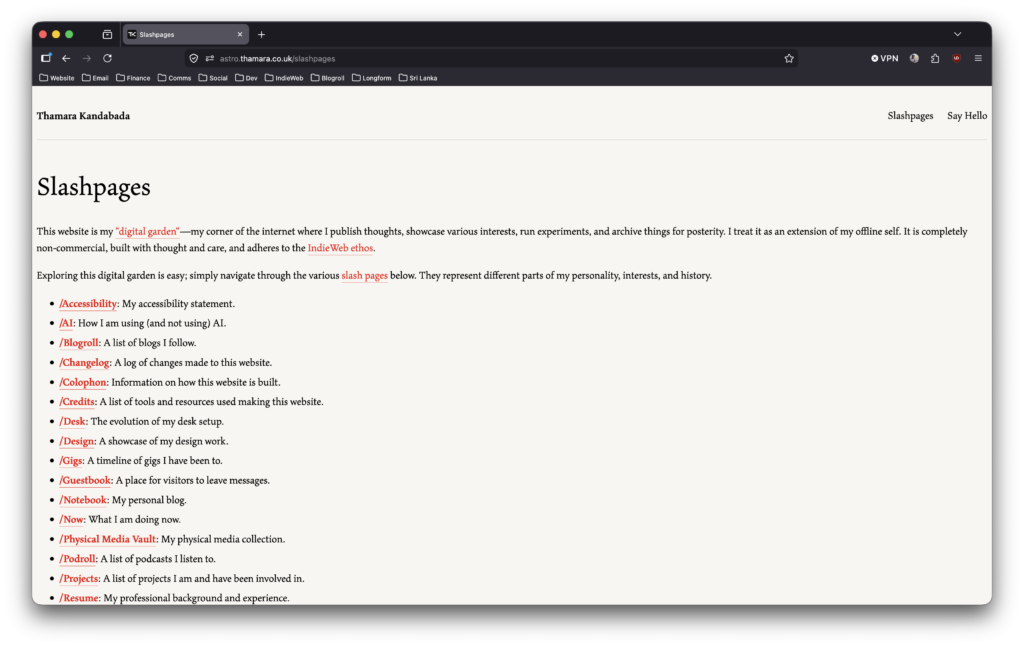
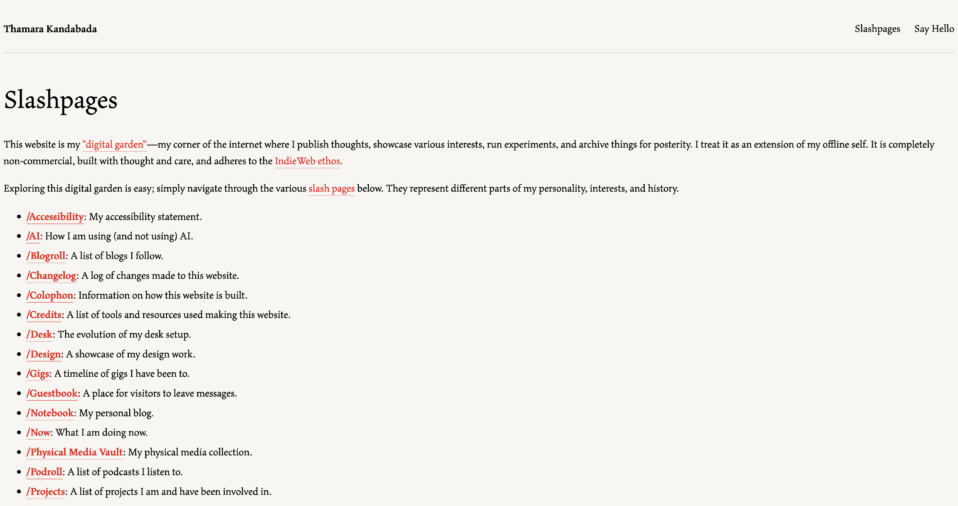
build: add post navigation and discuss widget to notebook

Changed region(s): [[0.0, 0.0296, 0.999, 1.0]]

diff --git a/src/styles/global.css b/src/styles/global.css
@@ -175,6 +175,12 @@ nav p, nav div {
     transition: 0.5s;
 }
 
+.post-nav {
+    margin: 0;
+    padding: 0;
+    font-style: italic;
+}
+
 /*
 Text elements
 --------------
@@ -583,7 +589,7 @@ Grids and sub-grids
 ===================
 */
 
-.gigs-grid {
+.gigs-grid, .md-grid {
     display: grid;
     grid-template-columns: 1fr 1fr;
     column-gap: 1.5rem;
@@ -699,8 +705,9 @@ Site notices
 
 .topics-list {
     border-top: 1px solid var(--border-color);
-    margin-top: 3rem;
-    padding-top: 1rem;
+    border-bottom: 1px solid var(--border-color);
+    margin: 3rem 0 1rem 0;
+    padding: 1rem 0 1rem 0;
 }
 
 .topics-list ul {
@@ -788,7 +795,7 @@ Media queries
         gap: 0;
     }
 
-    .uses-grid-container, .debas-grid, .now-grid, .uses-grid-container, .projects-grid, .style-grid, .meals, .blogroll-grid, .verify-grid, .podcast-grid, .podroll-grid, .podroll-subgrid, .notebook-grid, .gigs-grid {
+    .uses-grid-container, .debas-grid, .now-grid, .uses-grid-container, .projects-grid, .style-grid, .meals, .blogroll-grid, .verify-grid, .podcast-grid, .podroll-grid, .podroll-subgrid, .notebook-grid, .gigs-grid, .md-grid {
     grid-template-columns: 1fr;
     }
 

diff --git a/src/notebook/2026/06/a-weekend-in-scotland.md b/src/notebook/2026/06/a-weekend-in-scotland.md
@@ -36,6 +36,8 @@ Unsurprisingly, I wanted to visit a film theatre while in Glasgow. I picked [The
 
 The cinema is cozily tucked away on [Ashton Lane](https://maps.app.goo.gl/8HX4bi33aRkxiuh5A), surrounded by several bars. Being a Saturday night, it was as busy as it could get, with throngs of people milling about. When we walked into screen 2, the first thing I noticed was how the thumping bass from the music playing outside was leaking through. I chose to ignore this and settled in to see the film, which sadly did not turn out to be an enjoyable experience. It was ruined by people walking in and out of the cinema constantly—some jumping over seats to do so!—and a group of (possibly drunk) teenagers interjecting every so often, whom the manager eventually had to throw out.
 
+<div class="md-grid">
+
 ![Nuwani posing outside the cinema, under the large illuminated sign that reads The Grosvenor Picture Theatre.](images/IMG_3519-768x1024.jpg)
 
 ![Nuwani on the seat next to me at the cinema, illuminated by one of the small lamps installed next to every seat.](images/IMG_3522.jpg)
@@ -43,6 +45,8 @@ The cinema is cozily tucked away on [Ashton Lane](https://maps.app.goo.gl/8HX4bi
 ![One of our tickets for the film Backrooms, with the screen number and the seat number printed on it.](images/IMG_3518-scaled.jpg)
 
 ![A wide photo of screen 2. The vintage look of the cinema is preserved with the use of red carpets and acoustic treatment of the walls, and red leather chairs.](images/IMG_3521-scaled.jpg)
+
+</div>
 
 While it may be lucrative, I'm not convinced that the location of this cinema (neighbouring a number of very busy bars) is conducive to attracting the most well-behaved cinema-goers. The [code violations](https://iwittr.com/wiki/page/Moviegoers_Code_of_Conduct) I witnessed on a single visit were simply too many and too extreme to tolerate. I don't imagine I would be back.
 
@@ -64,11 +68,15 @@ Barrowland was a 15-minute walk from our hotel. I made my way there around 7pm, 
 
 Big Thief took the stage around 9pm. They performed a mix of new and old tracks, including my favourites _Mary_ (from the album _Capacity_) and _Not_ (from the album _Two Hands_). I posted a video of their performance of _Not_ on my [/Gigs](/gigs) page; it was every bit as powerful as I had hoped it would be. The audience was abuzz with a palpable energy that night; I must say I enjoyed every minute of it.
 
+<div class="md-grid">
+
 ![The band on stage, mid-performance. They're illuminated by soft orange and purple lights while the audience in the foreground looks on.](images/IMG_3560-scaled.jpg)
 
 ![Adrianne Lenker on her knees while performing the solo of the song Not. Many audience members have their phones out, filming the moment. ](images/IMG_3569-scaled.jpg)
 
 ![The multi-coloured neon signage on the front face of the Barrowland building beautifully illuminated at night](images/IMG_3577.jpg)
+
+</div>
 
 ## Monday
 
@@ -81,6 +89,8 @@ The famous [Glasgow Necropolis](https://en.wikipedia.org/wiki/Glasgow_Necropolis
 <figcaption>The entrance to the necropolis through the Bridge of Sighs</figcaption>
 
 While it is by design a resting place for the dead, there is a lot of life to be found in these grounds. It is by no means a desolate graveyard. Bees buzzing around the flower beds, squirrels in the trees, and the constant birdsong in the air make it an ideal place for quiet walks, absorbed in deep contemplation if you are so inclined. But the city is only a few minutes away, and its sounds do penetrate the invisible walls of this unlikely sanctuary occasionally—nothing like a loud car horn to remind you of the never-ending pursuit of industry.
+
+<div class="md-grid">
 
 ![One of the many leafy walkways through the necropolis, with trees bursting in green along both sides](images/IMG_3608-scaled.jpg)
 
@@ -102,6 +112,8 @@ While it is by design a resting place for the dead, there is a lot of life to be
 
 ![Large trees along one of the perimeter walls of the necropolis](images/IMG_3610.jpg)
 
+</div>
+
 The necropolis is built on a small hill. At the top, on a large column, is a statue of [John Knox](https://en.wikipedia.org/wiki/John_Knox), a theologian who played a prominent role in the [Scottish Reformation](https://en.wikipedia.org/wiki/Scottish_Reformation). Standing at the foot of the column you can see the grounds stretch in all four directions, peaceful, quiet, and impossibly green.
 
 ### Glasgow Cathedral
@@ -109,6 +121,8 @@ The necropolis is built on a small hill. At the top, on a large column, is a sta
 This impressive cathedral, first built in the 1100s, has undergone several renovations under many Bishops over the years. It is dedicated to [Saint Mungo](https://en.wikipedia.org/wiki/Saint_Mungo) (also known as Saint Kentigern) whose tomb it enshrines. It had served as an important pilgrimage site during the medieval period. Importantly, it survived the Scottish Reformation virtually intact, while many other churches were stripped of their status and destroyed as the Protestants rebelled against traditional forms of Catholic worship.
 
 Christian architecture fascinates me because I find its mere existence impossible to comprehend. How can such beauty and grace be imbued into places built in the service of a capricious god? How are the same people capable of committing unspeakable atrocities in the name of their god also be skilled in producing wondrous monuments to him? While impressed by the craftsmanship and artistry of it all, I remain staunchly irreligious, but even I must fess up to the following, albeit reluctantly: Christianity ain't all bad; it gave us beautiful cathedrals (and Martin Scorsese).
+
+<div class="md-grid">
 
 ![A copy of the King James Bible printed in 1617 that is displayed at the cathedral inside a glass case.](images/IMG_3628-scaled.jpg)
 
@@ -128,16 +142,22 @@ Christian architecture fascinates me because I find its mere existence impossibl
 
 ![The entrance to the cathedral as seen from the outside](images/IMG_3619-scaled.jpg)
 
+</div>
+
 ### St. Mungo’s Museum of Religious Life and Art
 
 This small museum is located right next to the cathedral. It showcases the beliefs and rituals of several major religions around the world, told through numerous artefacts, audio and video exhibits, and excerpts of interviews with representatives of each religious faith. Entry is free of charge. We were running out of time, so we didn't get to see much of the museum. We will go back to see the rest of it some day.
 
 On the way back we noticed a [coffee shop](https://www.instagram.com/copperboxcoffee/) located in an old police box, TARDIS-style. It was getting colder and there was a light drizzle, so we got ourselves some hot chocolate to enjoy on the way back to the hotel. That morning I had read [the post James wrote about Caramel Logs](https://jamesg.blog/2026/05/31/the-caramel-log), which this coffee shop happened to be selling, so we bought two of them to try. James was right; they are excellent treats with a great flavour combination, and they certainly won me—someone who generally avoids caramel-flavoured food—over.
 
+<div class="md-grid">
+
 ![Copperbox Coffee, a small specialty coffee shop based in the Cathedral Square in Glasgow which is run out of a blue police box.](images/IMG_3638.jpg)
 
 ![Me holding a Tunnock’s Caramel Log, a chocolate and caramel covered wafer treat, in a red and white wrapper.](images/IMG_3637-scaled.jpg)
 
 ![Nuwani and I holding our hot chocolate cups together](images/IMG_3639-scaled.jpg)
+
+</div>
 
 We took the bus back to the Glasgow airport and flew back home with full hearts. Scotland is a place of many delights; we aim to go back very soon.

diff --git a/src/notebook/2026/05/the-gobbins-cliff-walk.md b/src/notebook/2026/05/the-gobbins-cliff-walk.md
@@ -28,9 +28,13 @@ Once the formalities were dealt with, we were taken to the starting point of the
 
 The walk begins on a craggy shore, past a few farms. On a clear day, like the one we were fortunate enough to do this on, you can see Scotland's Mull of Kintyre on one side of the horizon, and Northern Ireland's own Bangor on the other.
 
+<figure>
+
 ![The craggy shoreline at the start of the walking path in the morning sun](images/IMG_3227-1024x768.jpg)
 
 <figcaption>The starting point of the walking path</figcaption>
+
+</figure>
 
 The entrance to the walking path is closed off. The padlocked gate can only be opened by a guide, and once you enter through Wise's Eye—a hole bored in the rock, named after the path's creator Berkeley Deane Wise— it is clear why it remains under lock and key.
 
@@ -42,73 +46,129 @@ The cliffs are home to a variety of birdlife including the extremely elusive puf
 
 The walk took about 2 hours in total, and our guide was with us the whole time. The views were indeed incredible, and the photos below don't do them justice.
 
+<div class="md-grid">
+
+<figure>
+
 ![Our boots photographed together. The shoes are a bit worn, and covered in smudges, showing use.](images/IMG_3188-768x1024.jpg)
 
 <figcaption>Nuwani and I wearing our hiking boots</figcaption>
+
+</figure>
+<figure>
 
 ![A view of the sea as seen through the trees. The sea is a greenish blue in colour against the vibrant greens of the foliage.](images/IMG_7971-768x1024.jpg)
 
 <figcaption>The sea, as seen from drop off point of the tour</figcaption>
 
+</figure>
+<figure>
+
 ![A group of people, wearing hard hats and walking boots, walking away from the camera, while the sun shines brightly overhead.](images/IMG_7832-768x1024.jpg)
 
 <figcaption>The group making their way to the start of the path</figcaption>
+
+</figure>
+<figure>
 
 ![An obelist erected on the coast near the shore. The craggy shoreline can be seen in the background, and a section of the path can be seen to the left of the photo.](images/IMG_7848-768x1024.jpg)
 
 <figcaption>The WWI monument at the start of the path</figcaption>
 
+</figure>
+<figure>
+
 ![A photo of Nuwani, on the left, and I, on the right. Nuwani is wearing a light green coat and I a green one. We both have hard hats in our hands.](images/IMG_3229-768x1024.jpg)
 
 <figcaption>Nuwani and I at the entrance to the path</figcaption>
+
+</figure>
+<figure>
 
 ![A bridge and a section of the walking path with the horizon in the background. Two people can be seen on the bridge, talking to each other.](images/IMG_7887-2-768x1024.jpg)
 
 <figcaption>A view of the path ahead</figcaption>
 
+</figure>
+<figure>
+
 ![Purple flowers on a bed of mossy grass perched on a cliff](images/IMG_7960-768x1024.jpg)
 
 <figcaption>Flowers growing out of the cliff-face</figcaption>
+
+</figure>
+<figure>
 
 ![People walking along the path, with the sea on the left and a sheer cliff face on the right.](images/IMG_7951-768x1024.jpg)
 
 <figcaption>A section of the path</figcaption>
 
+</figure>
+<figure>
+
 ![Nuwani standing on the cliff path holding the fence on her left.](images/IMG_3226-768x1024.jpg)
 
 <figcaption>Nuwani taking a break to pose</figcaption>
+
+</figure>
+<figure>
 
 ![A group of people, all wearing hard hats, descending a staircase leading into a cave](images/IMG_7947-768x1024.jpg)
 
 <figcaption>Descending in to a cave</figcaption>
 
+</figure>
+<figure>
+
 ![Two bridges intersecting at a concrete column built into the rocky shore, with the horizon in the background.](images/IMG_7921-scaled.jpg)
 
 <figcaption>A view of two of the bridges on the path</figcaption>
+
+</figure>
+<figure>
 
 ![The horizon dividing a brilliant blue sky and a green sea. Rocks along the sea shore can be seen in the foreground.](images/IMG_7907-768x1024.jpg)
 
 <figcaption>A view of the sea as seen from the path</figcaption>
 
+</figure>
+<figure>
+
 ![The dark opening of a cave, with a craggy landing in the foreground. Foamy seawater is creeping towards the cave opening.](images/IMG_7929-768x1024.jpg)
 
 <figcaption>A cave that can be seen along the path</figcaption>
+
+</figure>
+<figure>
 
 ![Me wearing a blue coat, blue hiking trousers and a hard hat standing with my back to a cliff.](images/IMG_7889-768x1024.jpg)
 
 <figcaption>Me against the sheer cliff-face the path was carved into</figcaption>
 
+</figure>
+<figure>
+
 ![Nuwani posing for a photo in the middle of a tubular metal bridge. The rest of the group can be seen behind her.](images/IMG_3203-768x1024.jpg)
 
 <figcaption>Nuwani at the tubular bridge</figcaption>
+
+</figure>
+<figure>
 
 ![Small white birds scattered across many legdes on a rock face.](images/IMG_7910-768x1024.jpg)
 
 <figcaption>Kittiwakes nesting in the cliffs</figcaption>
 
+</figure>
+<figure>
+
 ![A photo of Nuwani standing next to the protective fence at the end of the path. She is wearing a green coat, a hard hat and sunglasses.](images/IMG_3217-768x1024.jpg)
 
 <figcaption>Nuwani at the end of the path</figcaption>
+
+</figure>
+
+</div>
 
 It was an excellent day out in the sun, with a bit of exercise to boot, and we learned quite a bit about the local history, wildlife, and plant life. If you ever find yourself in Northern Ireland for a few days, this walk is highly recommended.
 

diff --git a/src/notebook/2026/03/building-a-physical-media-showcase-with-lovable.md b/src/notebook/2026/03/building-a-physical-media-showcase-with-lovable.md
@@ -163,11 +163,15 @@ I kept this section limited to 15 directors. Anything more than that would have 
 
 ### Formats
 
+<div class="md-grid">
+
 ![A screenshot of the stats section, showing a pie chart of titles by video quality](images/image_2026-03-04_112536740.png)
 
 ![A screenshot of the stats section, showing a pie chart of titles by audio format](images/image_2026-03-04_112558973.png)
 
 ![A screenshot of the stats section, showing a pie chart of titles by HDR version](images/image_2026-03-04_112624396.png)
+
+</div>
 
 ### Other
 

diff --git a/src/notebook/2026/04/catharsis-through-film.md b/src/notebook/2026/04/catharsis-through-film.md
@@ -3,7 +3,7 @@ title: 'Catharsis through film'
 pubDate: 2026-04-23
 description: 'Some thoughts on two recent Brazilian cinema outings'
 author: 'Thamara Kandabada'
-imageUrl: 'images/The-Blue-Trail.webp'
+imageUrl: 'images/The-Blue-Trail.jpg'
 imageAlt: 'A still from The Blue Trail (2025), where the main character is standing next to a large sculpted head overgrown with foliage'
 imageCaption: 'Denise Weinberg as Tereza in The Blue Trail'
 sections: ["Everything Else"]

diff --git a/src/notebook/2026/07/the-first-streamlet.md b/src/notebook/2026/07/the-first-streamlet.md
@@ -1,5 +1,5 @@
 ---
-title: ''
+title: 'Streamlet'
 pubDate: 2026-07-16
 description: 'I''ve always wanted to add a section to the blog for short status-type posts. I didn''t get around to experimenting with this on WordPress, but I have now built this in Astro. I''m calling this section of the blog "Stream", and each of these short posts a "Streamlet". I now need to find a way to make it as easy as possible to post these regularly.'
 author: 'Thamara Kandabada'

diff --git a/src/notebook/2026/04/a-data-visualiser-for-finances-2.md b/src/notebook/2026/04/a-data-visualiser-for-finances-2.md
@@ -22,6 +22,7 @@ A demo of the app can be accessed here: [finviz.thamara.co.uk](https://finviz.th
 
 Feel free to upload your own data and play about. (The data resets periodically.) Here are a few screenshots to tickle your fancy.
 
+
 ![App screenshot showing the login screen](images/Screenshot-2026-04-13-at-23.50.55.png)
 
 ![App screenshot showing a monthly summary of finances and an expense breakdown](images/Screenshot-2026-04-13-at-23.51.50.png)
